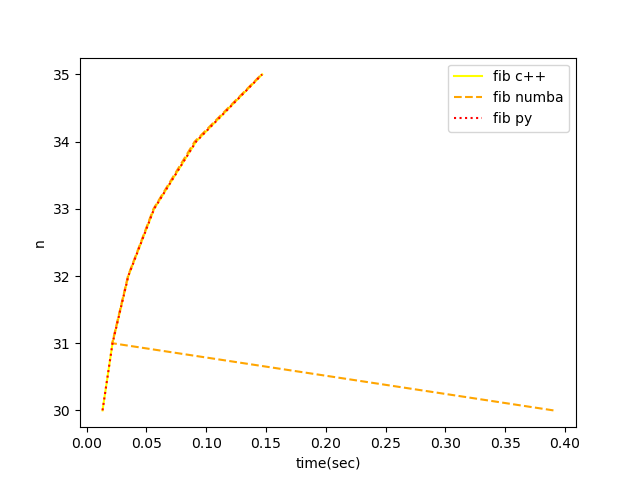
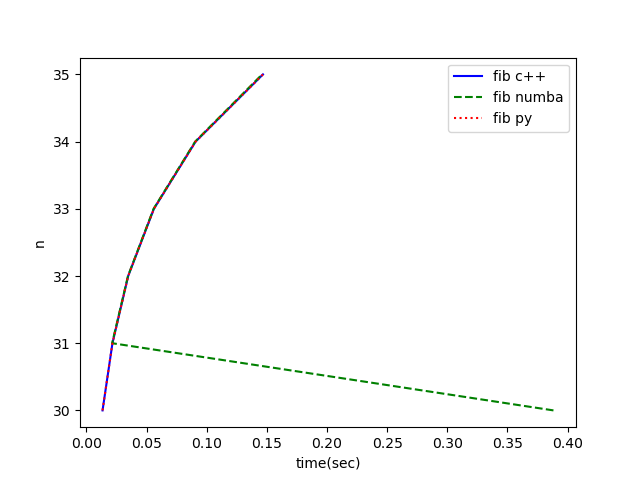
generating another fig

diff --git a/MA4/MA4_files/MA4_2.py b/MA4/MA4_files/MA4_2.py
@@ -48,8 +48,8 @@ def main():
 
 
 	fig, ax = plt.subplots()
-	ax.plot(time_fibc, ns, linestyle='-', color='yellow', label='fib c++')
-	ax.plot(time_numba, ns, linestyle='--', color='orange', label='fib numba')
+	ax.plot(time_fibc, ns, linestyle='-', color='blue', label='fib c++')
+	ax.plot(time_numba, ns, linestyle='--', color='green', label='fib numba')
 	ax.plot(time_fibc, ns, linestyle=':', color='red', label='fib py')
 
 	plt.legend()
